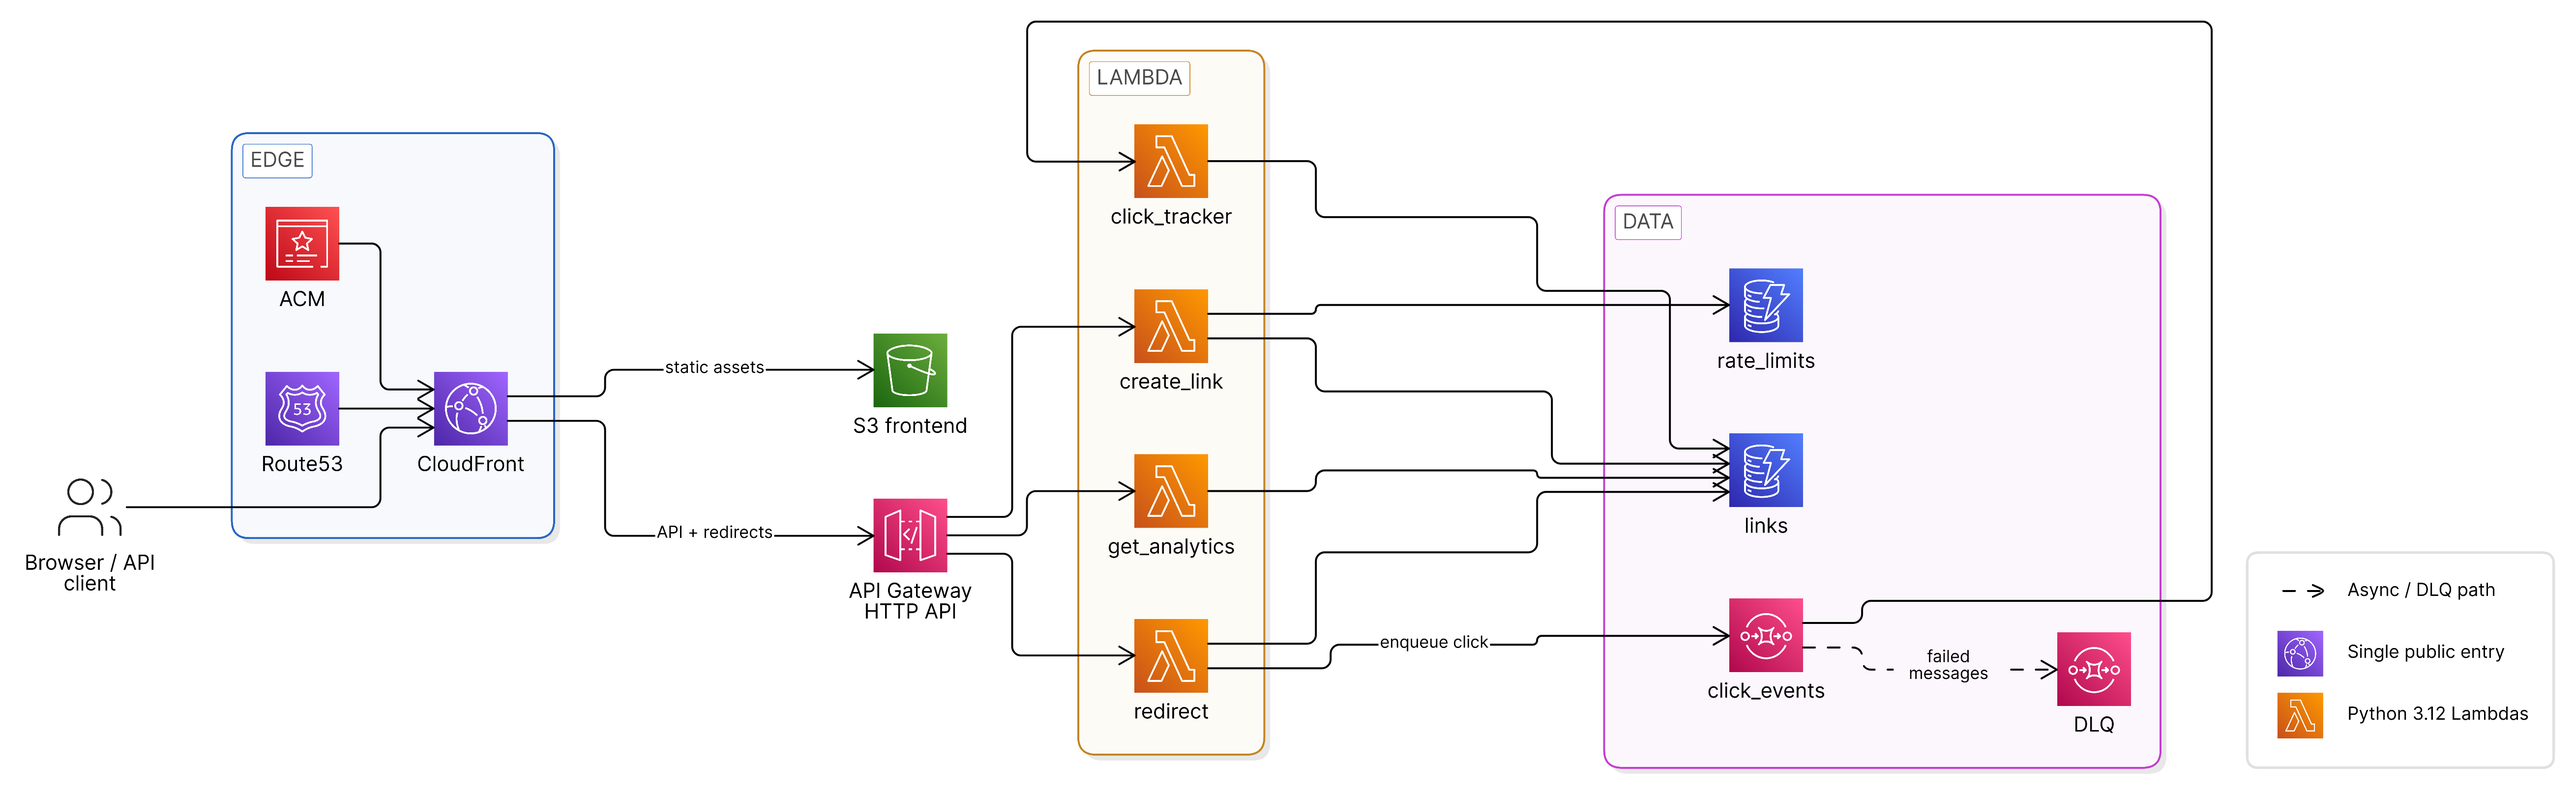
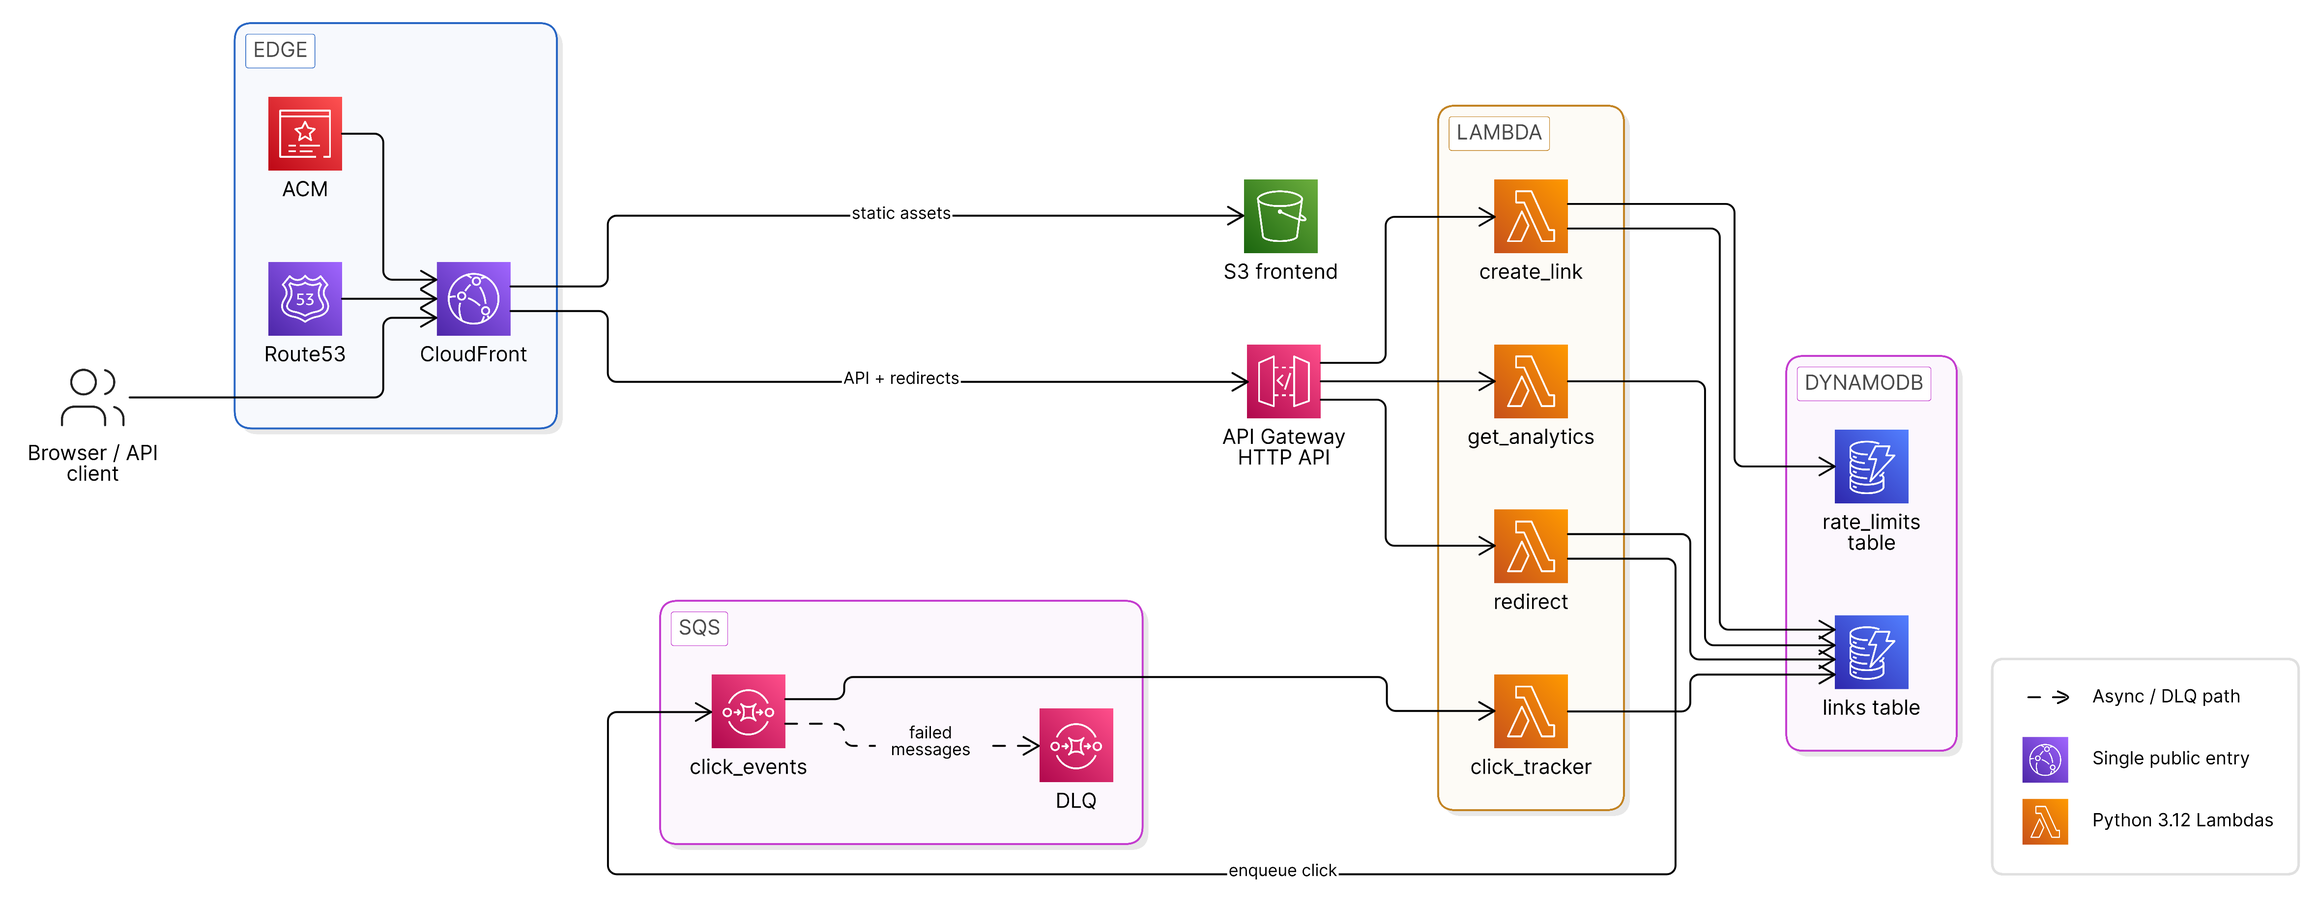
docs: label DynamoDB and SQS groups on architecture diagram
Split Data into labeled DynamoDB and SQS groups with table/queue
names; re-export PNG and clarify Eraser vs Mermaid roles in docs.

diff --git a/docs/architecture.md b/docs/architecture.md
@@ -6,6 +6,8 @@ The URL shortener is a single-environment, serverless application on AWS. CloudF
 
 An editable **Eraser architecture diagram** (AWS icons, diagram-as-code) is in [docs/diagrams/url-shortener-architecture.eraser](diagrams/url-shortener-architecture.eraser). **[Open live in Eraser](https://app.eraser.io/workspace/NjIOU5jPmHgeOj4OvVmO?diagram=r8o0_JSJPUNXFo8IWrvh&layout=canvas)** · See [diagrams/README.md](diagrams/README.md).
 
+The Mermaid diagram below is a **compact, text-native** view (good for GitHub rendering without images). The Eraser diagram is **more visual** — AWS icons, Route53/ACM, path labels, and grouped DynamoDB/SQS — and is the preferred asset for README and blog posts.
+
 <details>
 <summary><strong>View architecture diagram</strong></summary>
 <br>
